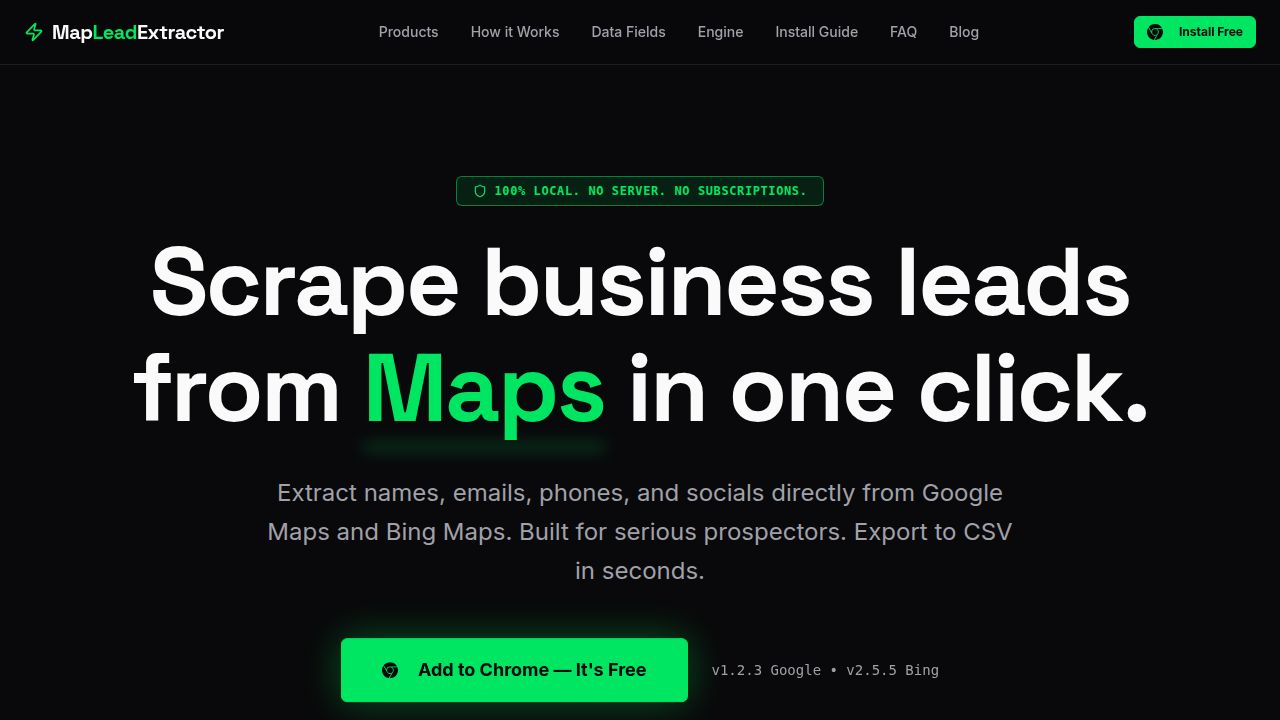
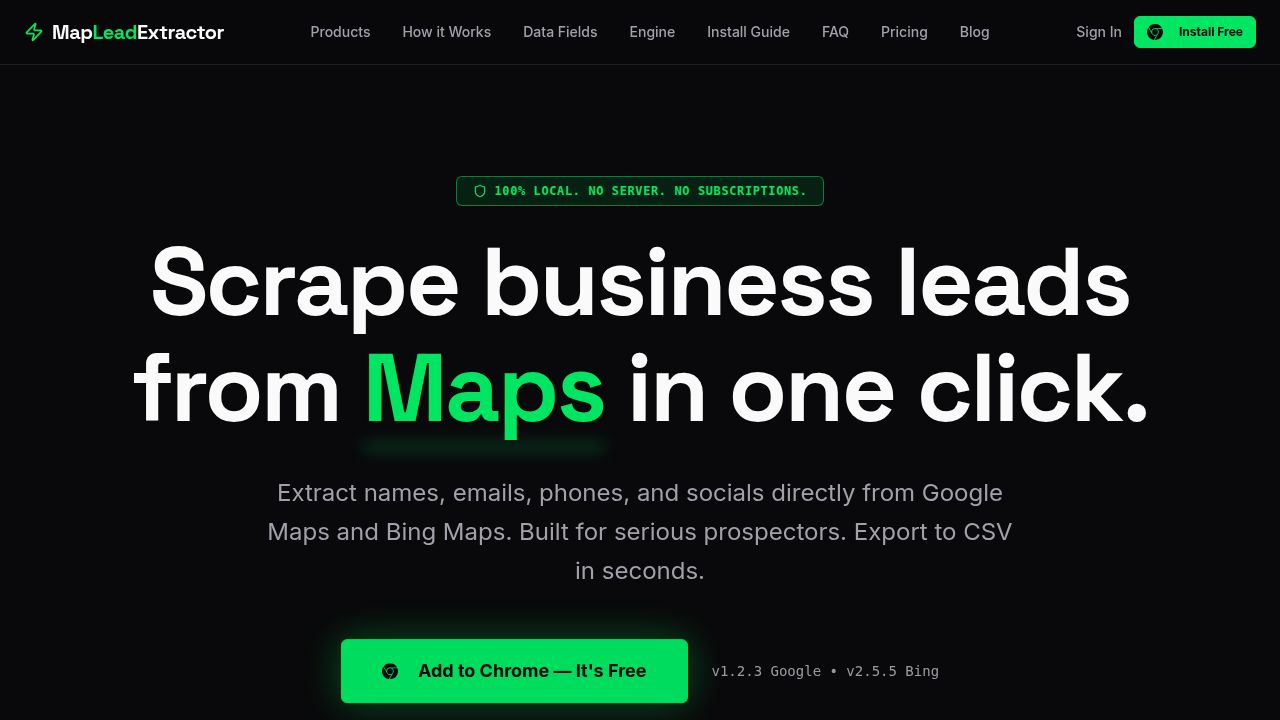
Add a new page for connecting browser extensions to the website
Create a `/connect-extension` route and component for managing extension connections, including authentication via Clerk and status updates. Also, package the latest version of the MapLeadExtractor extension as a zip file.

Replit-Commit-Author: Agent
Replit-Commit-Session-Id: 36cd7775-c7fc-4ab2-a6f0-cc24c6d11292
Replit-Commit-Checkpoint-Type: full_checkpoint
Replit-Commit-Event-Id: c1781db5-ecb1-46ea-bef6-e60eeb1cdb0f
Replit-Commit-Screenshot-Url: https://storage.googleapis.com/screenshot-production-us-central1/e741d6c1-8f3f-4962-b4bd-5ddd513018fb/36cd7775-c7fc-4ab2-a6f0-cc24c6d11292/4uYdyz5
Replit-Helium-Checkpoint-Created: true

diff --git a/artifacts/lead-extractor-site/src/pages/connect-extension.tsx b/artifacts/lead-extractor-site/src/pages/connect-extension.tsx
@@ -1,0 +1,288 @@
+import { useEffect, useState } from "react";
+import { useUser, SignIn } from "@clerk/react";
+import { CheckCircle, Plug, AlertCircle, Loader2 } from "lucide-react";
+
+const basePath = import.meta.env.BASE_URL.replace(/\/$/, "");
+
+// Chrome extension IDs
+const BING_EXT_ID = "hdcllknjhfjlgifobniljjgfgmdjhfmg";
+const GOOGLE_EXT_ID = "ahhfkbclbkgkbmobkjcahdbgnnlcomjl";
+
+type Status = "idle" | "connecting" | "connected" | "not_installed" | "error";
+
+declare global {
+  interface Window {
+    chrome?: {
+      runtime?: {
+        sendMessage: (
+          extensionId: string,
+          message: unknown,
+          callback: (response: unknown) => void
+        ) => void;
+        lastError?: { message: string };
+      };
+    };
+  }
+}
+
+function sendToExtension(
+  extId: string,
+  message: unknown
+): Promise<{ ok: boolean; [key: string]: unknown }> {
+  return new Promise((resolve) => {
+    if (!window.chrome?.runtime?.sendMessage) {
+      resolve({ ok: false, error: "not_installed" });
+      return;
+    }
+    window.chrome.runtime.sendMessage(extId, message, (response) => {
+      if (window.chrome?.runtime?.lastError) {
+        resolve({ ok: false, error: "not_installed" });
+        return;
+      }
+      resolve((response as { ok: boolean }) || { ok: false });
+    });
+  });
+}
+
+function ConnectPanel({ apiKey, email }: { apiKey: string; email: string }) {
+  const [bingStatus, setBingStatus] = useState<Status>("idle");
+  const [googleStatus, setGoogleStatus] = useState<Status>("idle");
+
+  async function connectExtension(
+    extId: string,
+    setStatus: (s: Status) => void
+  ) {
+    setStatus("connecting");
+    const res = await sendToExtension(extId, {
+      type: "MLE_CONNECT",
+      apiKey,
+      email,
+    });
+    if ((res as { error?: string }).error === "not_installed") {
+      setStatus("not_installed");
+    } else if (res.ok) {
+      setStatus("connected");
+    } else {
+      setStatus("error");
+    }
+  }
+
+  // Auto-connect to whichever extension is installed on page load
+  useEffect(() => {
+    sendToExtension(BING_EXT_ID, { type: "MLE_GET_STATUS" }).then((res) => {
+      if ((res as { error?: string }).error !== "not_installed") {
+        connectExtension(BING_EXT_ID, setBingStatus);
+      }
+    });
+    sendToExtension(GOOGLE_EXT_ID, { type: "MLE_GET_STATUS" }).then((res) => {
+      if ((res as { error?: string }).error !== "not_installed") {
+        connectExtension(GOOGLE_EXT_ID, setGoogleStatus);
+      }
+    });
+  }, []);
+
+  function StatusIcon({ status }: { status: Status }) {
+    if (status === "connecting")
+      return <Loader2 className="w-4 h-4 animate-spin text-primary" />;
+    if (status === "connected")
+      return <CheckCircle className="w-4 h-4 text-primary" />;
+    if (status === "not_installed")
+      return <AlertCircle className="w-4 h-4 text-muted-foreground" />;
+    if (status === "error")
+      return <AlertCircle className="w-4 h-4 text-red-400" />;
+    return <Plug className="w-4 h-4 text-muted-foreground" />;
+  }
+
+  function StatusLabel({ status }: { status: Status }) {
+    if (status === "connecting") return <span className="text-muted-foreground">Connecting…</span>;
+    if (status === "connected") return <span className="text-primary font-semibold">Connected ✓</span>;
+    if (status === "not_installed") return <span className="text-muted-foreground">Not installed</span>;
+    if (status === "error") return <span className="text-red-400">Error — try again</span>;
+    return null;
+  }
+
+  const extensions = [
+    {
+      id: BING_EXT_ID,
+      name: "Map Lead Extractor",
+      subtitle: "Bing Maps",
+      storeUrl: "https://chromewebstore.google.com/detail/map-lead-extractor/hdcllknjhfjlgifobniljjgfgmdjhfmg",
+      status: bingStatus,
+      setStatus: setBingStatus,
+    },
+    {
+      id: GOOGLE_EXT_ID,
+      name: "Google Maps Lead Extractor",
+      subtitle: "Google Maps",
+      storeUrl: "https://chromewebstore.google.com/detail/ahhfkbclbkgkbmobkjcahdbgnnlcomjl",
+      status: googleStatus,
+      setStatus: setGoogleStatus,
+    },
+  ];
+
+  const anyConnected =
+    bingStatus === "connected" || googleStatus === "connected";
+
+  return (
+    <div className="min-h-screen bg-background flex flex-col items-center justify-center p-6">
+      <div className="w-full max-w-md">
+        {/* Header */}
+        <div className="text-center mb-8">
+          <div className="w-14 h-14 rounded-2xl bg-primary/10 border border-primary/20 flex items-center justify-center mx-auto mb-4">
+            <Plug className="w-7 h-7 text-primary" />
+          </div>
+          <h1 className="text-2xl font-display font-bold text-foreground mb-2">
+            Connect Extension
+          </h1>
+          <p className="text-muted-foreground text-sm">
+            Signed in as <strong className="text-foreground">{email}</strong>
+          </p>
+        </div>
+
+        {/* Success banner */}
+        {anyConnected && (
+          <div className="mb-6 p-4 rounded-xl bg-primary/10 border border-primary/30 flex items-start gap-3">
+            <CheckCircle className="w-5 h-5 text-primary mt-0.5 shrink-0" />
+            <div>
+              <p className="text-primary font-semibold text-sm">All done!</p>
+              <p className="text-muted-foreground text-xs mt-0.5">
+                Your extension is connected. Every extraction now auto-saves to your{" "}
+                <a href={`${basePath}/dashboard`} className="text-primary underline underline-offset-2">
+                  dashboard
+                </a>
+                . You can close this tab.
+              </p>
+            </div>
+          </div>
+        )}
+
+        {/* Extension cards */}
+        <div className="space-y-3 mb-6">
+          {extensions.map((ext) => (
+            <div
+              key={ext.id}
+              className="bg-card border border-border rounded-xl p-4 flex items-center gap-4"
+            >
+              <StatusIcon status={ext.status} />
+              <div className="flex-1 min-w-0">
+                <p className="font-semibold text-sm text-foreground leading-tight">
+                  {ext.name}
+                </p>
+                <p className="text-xs text-muted-foreground">{ext.subtitle}</p>
+                <StatusLabel status={ext.status} />
+              </div>
+              {ext.status === "not_installed" && (
+                <a
+                  href={ext.storeUrl}
+                  target="_blank"
+                  rel="noopener noreferrer"
+                  className="text-xs text-primary underline underline-offset-2 shrink-0"
+                >
+                  Install
+                </a>
+              )}
+              {(ext.status === "idle" || ext.status === "error") && (
+                <button
+                  onClick={() => connectExtension(ext.id, ext.setStatus)}
+                  className="text-xs bg-primary/10 border border-primary/30 text-primary px-3 py-1.5 rounded-lg font-semibold hover:bg-primary/20 transition-colors shrink-0"
+                >
+                  Connect
+                </button>
+              )}
+              {ext.status === "connected" && (
+                <button
+                  onClick={() =>
+                    sendToExtension(ext.id, { type: "MLE_DISCONNECT" }).then(
+                      () => ext.setStatus("idle")
+                    )
+                  }
+                  className="text-xs text-muted-foreground hover:text-foreground transition-colors shrink-0"
+                >
+                  Disconnect
+                </button>
+              )}
+            </div>
+          ))}
+        </div>
+
+        <p className="text-xs text-muted-foreground text-center">
+          Only your email and API key are shared with the extension — no passwords.
+        </p>
+
+        <div className="mt-6 text-center">
+          <a
+            href={`${basePath}/dashboard`}
+            className="text-sm text-primary hover:underline"
+          >
+            Go to Dashboard →
+          </a>
+        </div>
+      </div>
+    </div>
+  );
+}
+
+export default function ConnectExtension() {
+  const { isLoaded, isSignedIn, user } = useUser();
+  const [apiKey, setApiKey] = useState<string | null>(null);
+
+  useEffect(() => {
+    if (isSignedIn && user) {
+      const key = user.publicMetadata?.apiKey as string | undefined;
+      if (key) {
+        setApiKey(key);
+      } else {
+        // Key not in metadata yet — generate it via API
+        fetch(`${basePath}/api/user/api-key`, {
+          method: "POST",
+          credentials: "include",
+        })
+          .then((r) => r.json())
+          .then((data) => setApiKey(data.apiKey || null))
+          .catch(() => {});
+      }
+    }
+  }, [isSignedIn, user]);
+
+  if (!isLoaded) {
+    return (
+      <div className="min-h-screen bg-background flex items-center justify-center">
+        <Loader2 className="w-6 h-6 animate-spin text-primary" />
+      </div>
+    );
+  }
+
+  if (!isSignedIn) {
+    return (
+      <div className="min-h-screen bg-background flex flex-col items-center justify-center p-6">
+        <div className="text-center mb-8">
+          <h1 className="text-2xl font-display font-bold text-foreground mb-2">
+            Sign in to connect your extension
+          </h1>
+          <p className="text-muted-foreground text-sm">
+            Sign in with Google — then your extension connects automatically.
+          </p>
+        </div>
+        <SignIn
+          routing="hash"
+          forceRedirectUrl={`${basePath}/connect-extension`}
+          signUpForceRedirectUrl={`${basePath}/connect-extension`}
+        />
+      </div>
+    );
+  }
+
+  if (!apiKey) {
+    return (
+      <div className="min-h-screen bg-background flex items-center justify-center">
+        <Loader2 className="w-6 h-6 animate-spin text-primary" />
+      </div>
+    );
+  }
+
+  const email =
+    user?.primaryEmailAddress?.emailAddress ||
+    (user?.emailAddresses?.[0]?.emailAddress ?? "");
+
+  return <ConnectPanel apiKey={apiKey} email={email} />;
+}

diff --git a/artifacts/lead-extractor-site/src/App.tsx b/artifacts/lead-extractor-site/src/App.tsx
@@ -15,6 +15,7 @@ import Dashboard from "@/pages/dashboard";
 import Admin from "@/pages/admin";
 import AdminLogin from "@/pages/admin-login";
 import Pricing from "@/pages/pricing";
+import ConnectExtension from "@/pages/connect-extension";
 
 const queryClient = new QueryClient();
 
@@ -188,6 +189,7 @@ function ClerkProviderWithRoutes() {
             <Route path="/pricing" component={Pricing} />
             <Route path="/blog" component={Blog} />
             <Route path="/blog/:slug" component={BlogPost} />
+            <Route path="/connect-extension" component={ConnectExtension} />
             <Route component={NotFound} />
           </Switch>
           <Toaster />